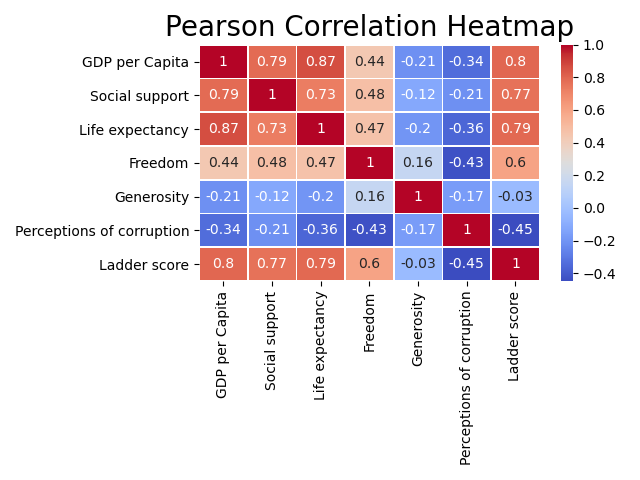
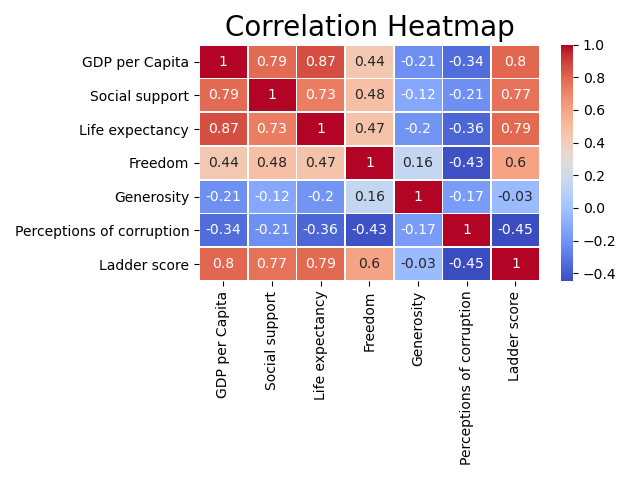
Final Commit

Changed region(s): [[0.25, 0.0312, 0.9062, 0.0938]]

diff --git a/2) Analysing_the_data.py b/2) Analysing_the_data.py
@@ -10,8 +10,9 @@ print('--'*30)
 print(df.value_counts(['Regional_Indicator','Ladder_Category']).sort_index())
 
 print(df['Ladder_Category'].value_counts())
-
+print(df.loc[df['Ladder_Category'] == 'Suffering'])
 print('--'*30)
+
 
 def RegCalc(column):
         return(df.groupby('Regional_Indicator', as_index=False).agg({column:['min','max','mean']}).round(3))
@@ -25,9 +26,8 @@ def CountryCalc(column):
         var1=df.iloc[df[column].idxmin()]
         return(var[0] +' scored highest in '+ column +' while '+ var1[0] +' scored lowest in '+ column)
 
-df_1 = df.iloc[:,6:12]
-df_2 = df.iloc[:,2:3]
-df_calc = pd.concat([df_1 , df_2], axis=1)
+
+df_calc = df.iloc[:,[2,6,7,8,9,10,11]]
 
 for x in df_calc:
         print(RegCalc(x))
@@ -51,9 +51,11 @@ print('--'*30)
         #correlation=df['Ladder_Score'].corr(df[6:], method='pearson') 
         #ValueError: operands could not be broadcast together with shapes (143,) (143,20)
 #Method 4: print relevant columns
-# print('--'*30)
 
-pearson_scores = df_1.corrwith(df['Ladder_Score'],method='pearson')
-print('Correlation coefficient of Ladder Score with columns below:\n', pearson_scores)
+df_1 = df.iloc[:,6:12]
+df_ls = df_1.corrwith(df['Ladder_Score'])
+print('Correlation coefficient of Ladder Score with columns below:\n', df_ls)
+
+
 
 

diff --git a/1) Exploring_the_dataset.py b/1) Exploring_the_dataset.py
@@ -17,6 +17,7 @@ pop_df = pd.merge(df, pop_1, how='left', left_on='Country name', right_on='Count
 pop_df_alter = pop_df.drop(columns='Country (or dependency)')
 
 df1=pop_df_alter.sort_values('Country name', ascending = True).reset_index(drop=True)
+# perhaps could have tried this instead df1.columns = df.columns.str.replace(' ', '_') 
 df1.rename(columns={'Country name':'Country_Name',
                      'Regional indicator':'Regional_Indicator',
                     'Ladder score':'Ladder_Score',
@@ -41,8 +42,8 @@ df1.rename(columns={'Country name':'Country_Name',
 # With missing numeric values the alternative options i would've considered are below:
 # new_df.fillna(new_df.mean(), inplace=True) or a forward/back fill but think it would be better to drop in this context 
 # new_df2 = new_df.drop_duplicates(subset['column_name1'])
-#df['column name'] = df['column name'].replace(['1st old value','2nd old value',...],
-# ['1st new value','2nd new value',...])
+
+#df['column name'] = df['column name'].replace(['1st old value','2nd old value',...],['1st new value','2nd new value',...])
 
 print(df1.isnull().sum())
 df1.dropna(subset = ['Pop_2020'], inplace=True)

diff --git a/Visualizing_the_data.py b/Visualizing_the_data.py
@@ -9,11 +9,12 @@ df_1 = df.iloc[:,6:12]
 df_2 = df.iloc[:,2:3]
 df_corr = pd.concat([df_1 , df_2], axis=1)
 
+
 sns.heatmap(df_corr.corr(),annot=True,linewidths=.5,cmap='coolwarm',
         xticklabels=world_columns, yticklabels=world_columns)
 plt.xticks(rotation=90) 
 plt.yticks(rotation=0) 
-plt.title('Pearson Correlation Heatmap', fontsize =20)
+plt.title('Correlation Heatmap', fontsize =20)
 plt.tight_layout() # this one line took me about 2 hours, could not figure out how to not cut off my x and yicklabels
 plt.savefig('Heatmap.png')
 plt.show()
@@ -55,6 +56,7 @@ g.fig.set_size_inches(12,6)
 g.fig.suptitle('Freedom and Happiness', weight='bold',y=1,)
 plt.show()
 
+sns.set_style('ticks')
 df['Pop_2020'] = df['Pop_2020'].div(1000000)
 l_gdp=sns.regplot(x='Ladder_Score',y='Logged_GDPper_Capita',data=df,
             scatter_kws={'s': df['Pop_2020'],'color':'g','alpha':0.8},
@@ -65,7 +67,4 @@ plt.tight_layout()
 
 
 plt.show()
-
-
-
 
